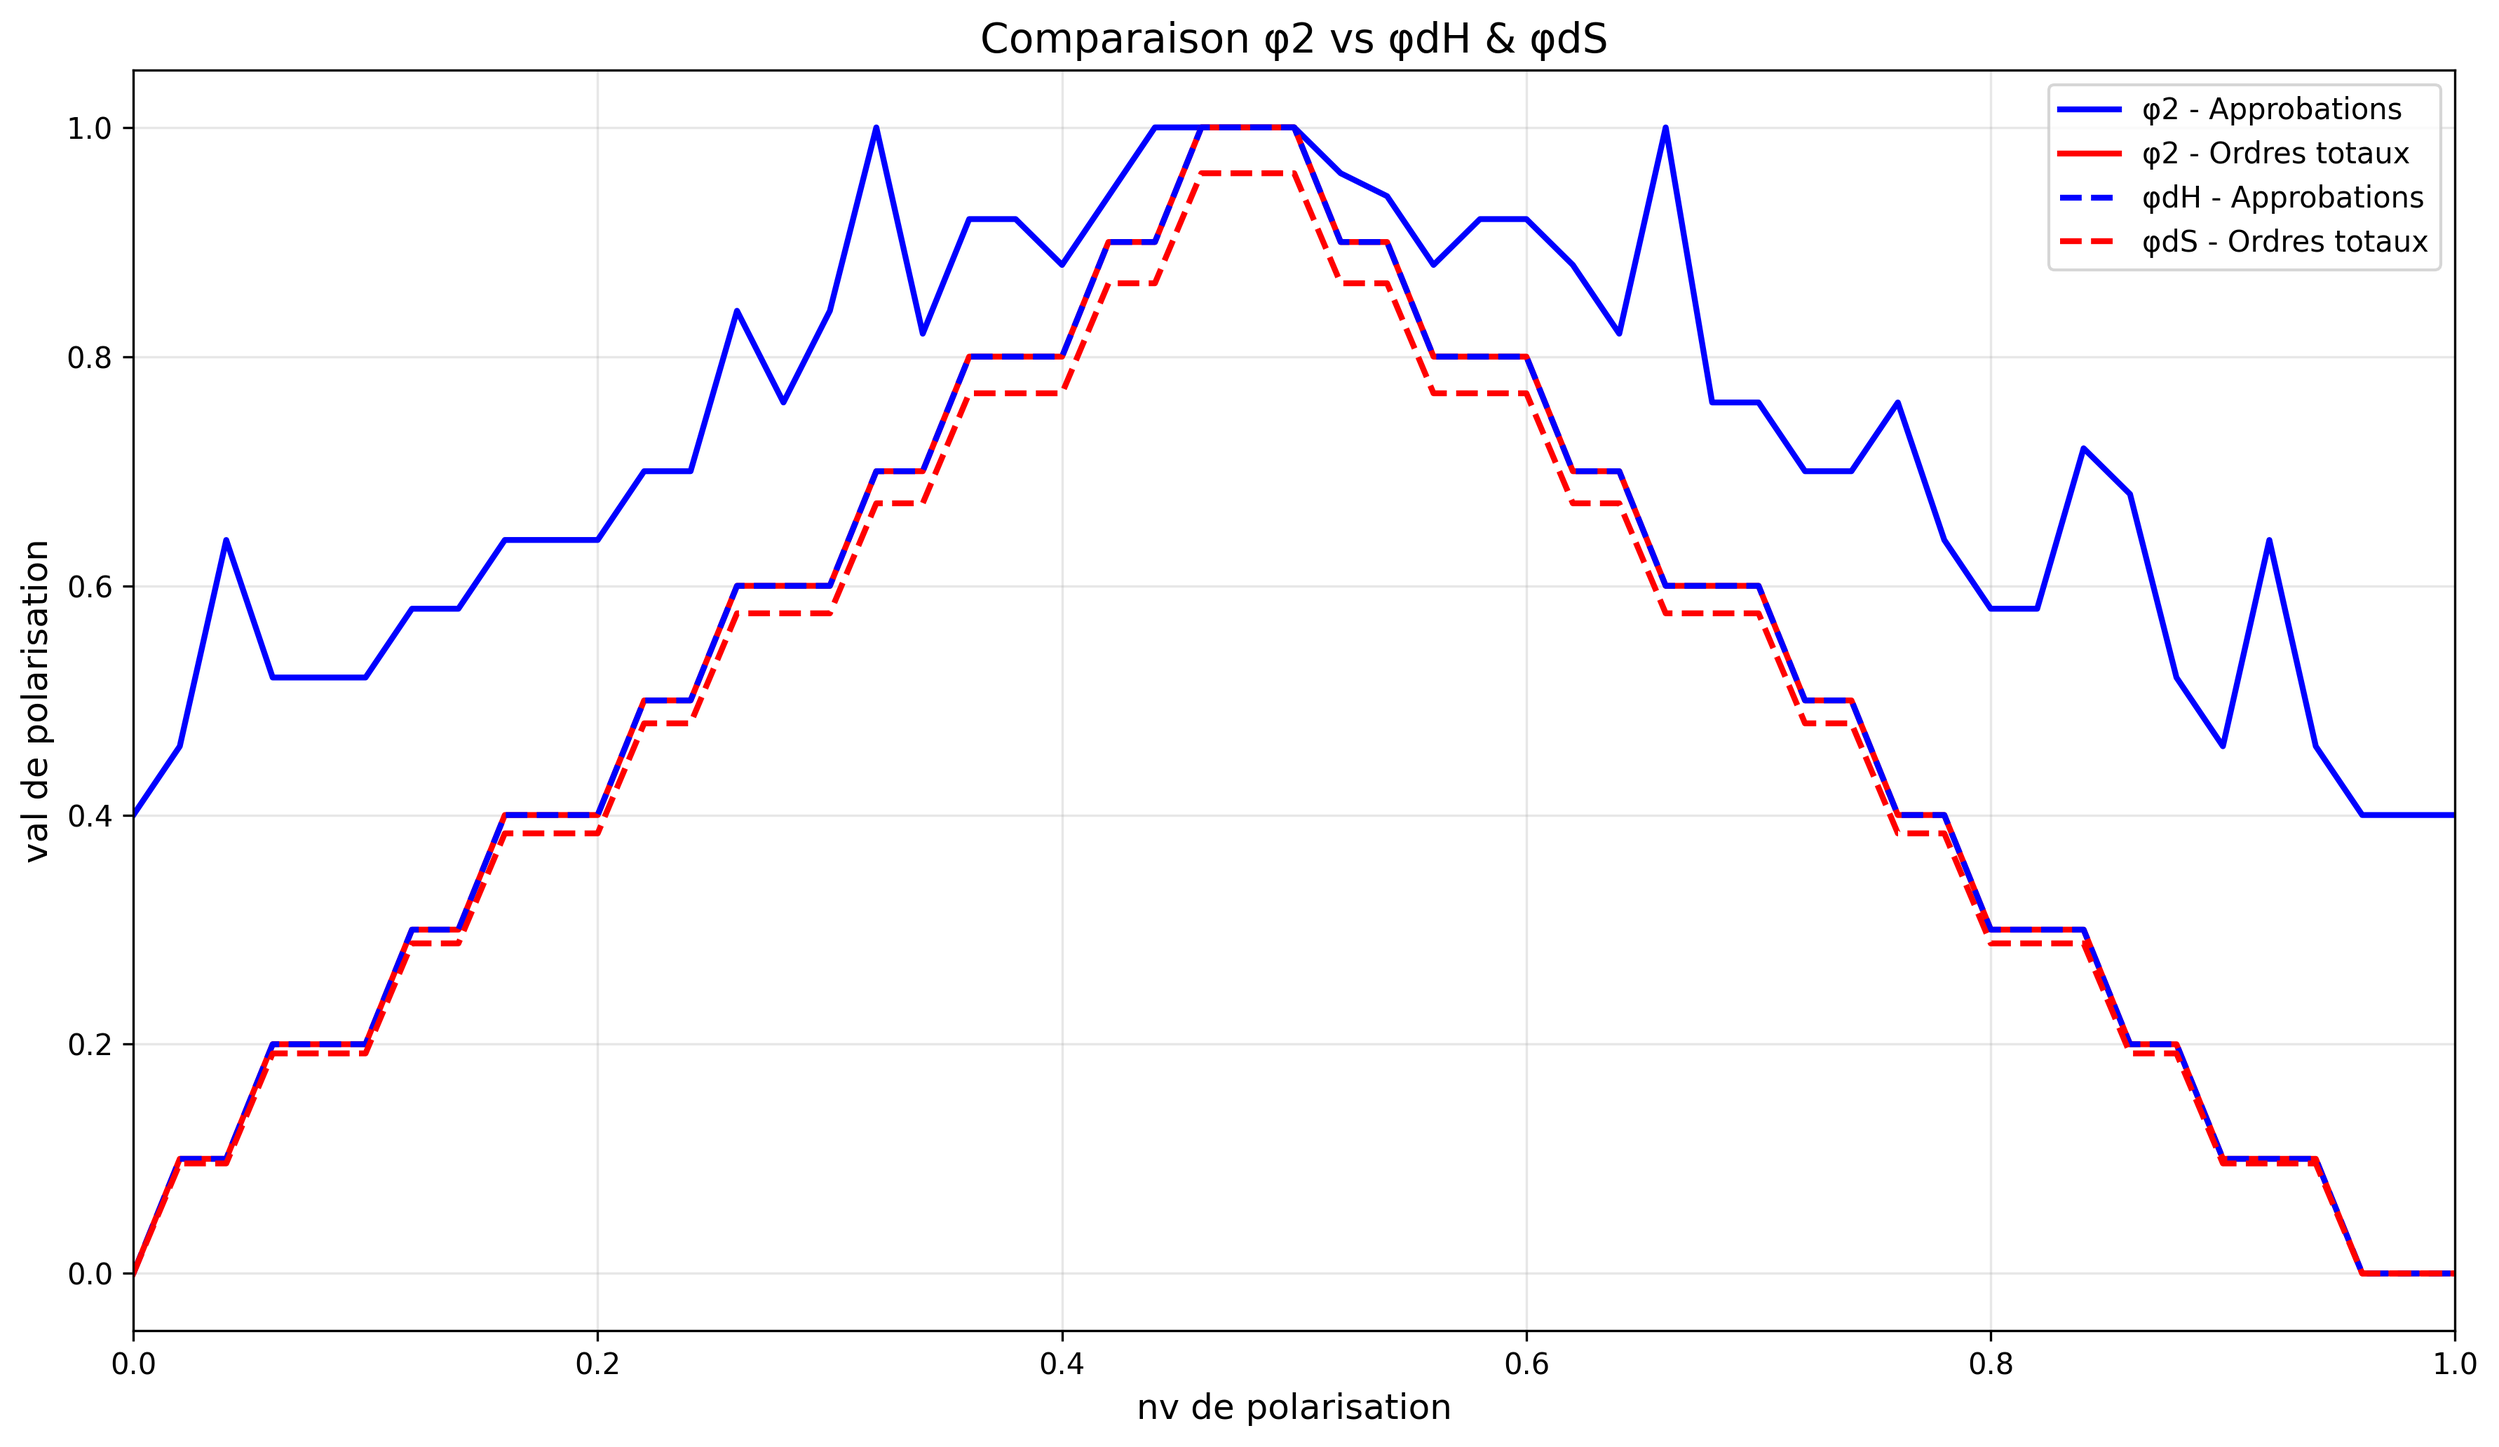
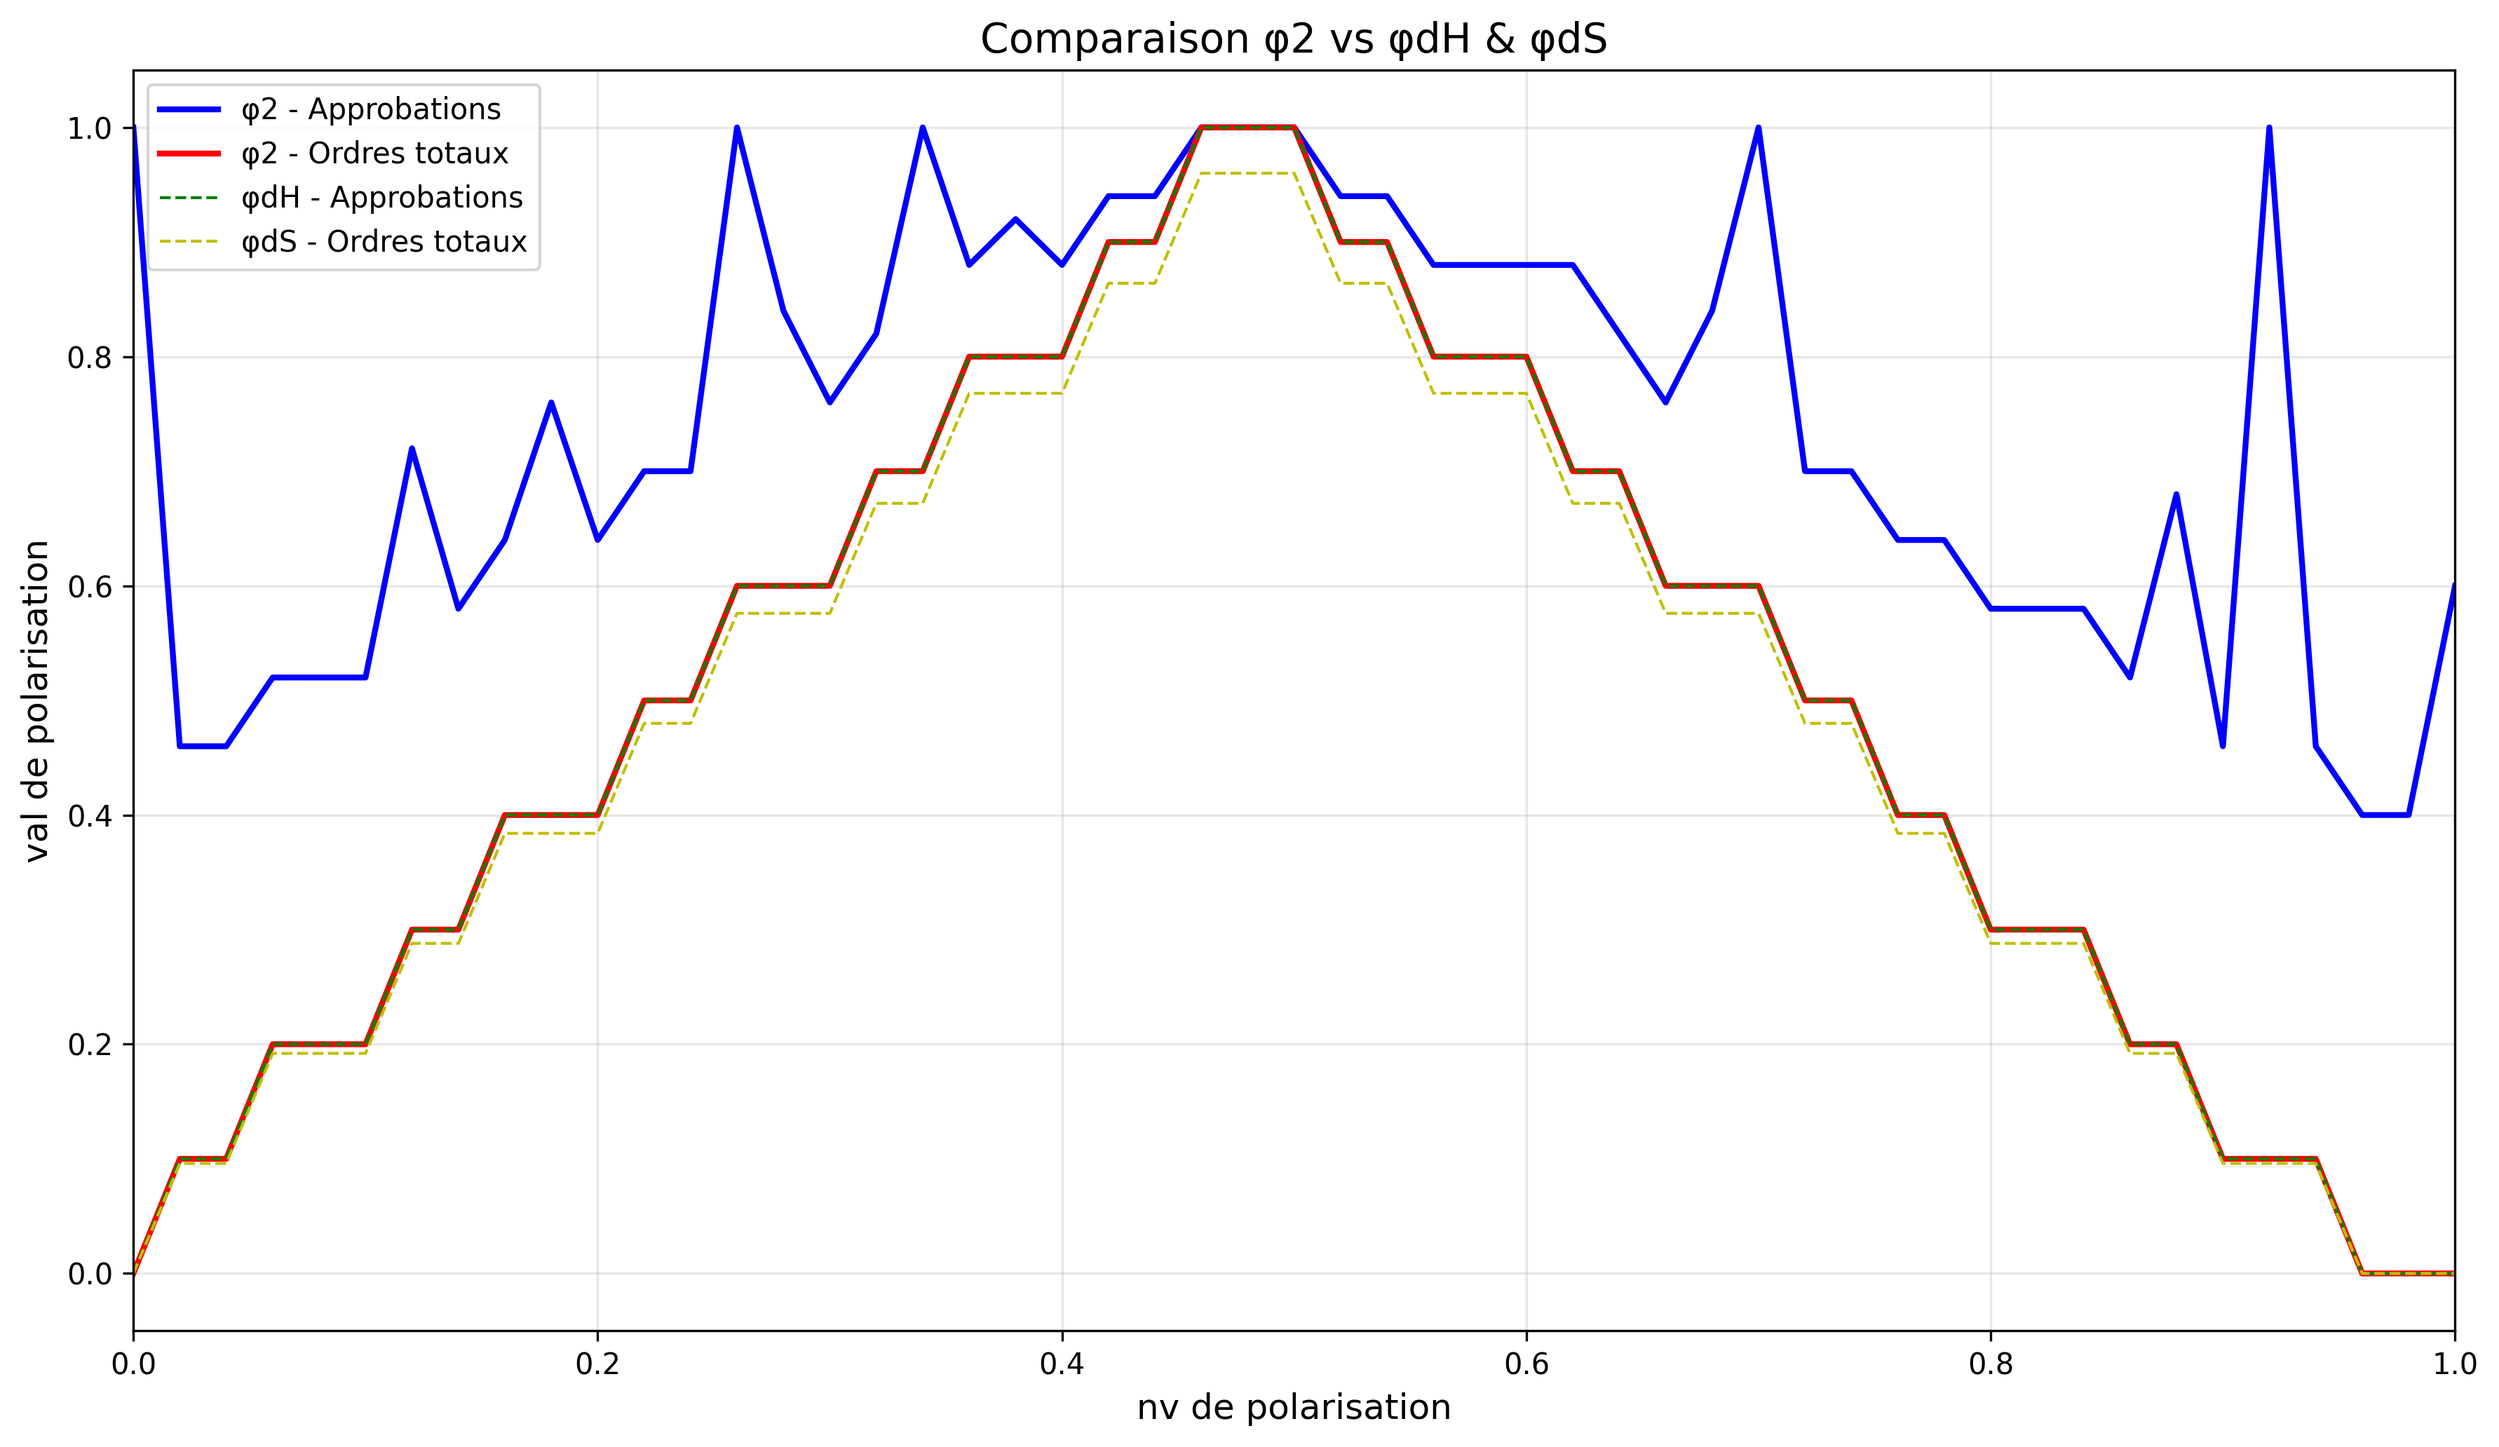
bonus : graph qui compare les deux méthodes analyse local VS analyse globale

diff --git a/bonus_visualisation_phi_vs_phidHS.py b/bonus_visualisation_phi_vs_phidHS.py
@@ -33,11 +33,13 @@ for p in polarisations:
 
 
 #[---debut du graphe---]
+
+#on met des linewidth different et des couleurs distinctes car les courbes peuvent se chevaucher
 plt.figure(figsize=(12, 7))
 plt.plot(polarisations, phi2_approb, 'b-', label='φ2 - Approbations', linewidth=2, linestyle='-')
 plt.plot(polarisations, phi2_ordres, 'r-', label='φ2 - Ordres totaux', linewidth=2, linestyle='-')
-plt.plot(polarisations, phidH_approb, 'b--', label='φdH - Approbations', linewidth=2, linestyle='--')
-plt.plot(polarisations, phidS_ordres, 'r--', label='φdS - Ordres totaux', linewidth=2, linestyle='--')
+plt.plot(polarisations, phidH_approb, 'g--', label='φdH - Approbations', linewidth=1, linestyle='--')
+plt.plot(polarisations, phidS_ordres, 'y--', label='φdS - Ordres totaux', linewidth=1, linestyle='--')
 
 plt.xlabel('nv de polarisation', fontsize=12)
 plt.ylabel('val de polarisation', fontsize=12)
